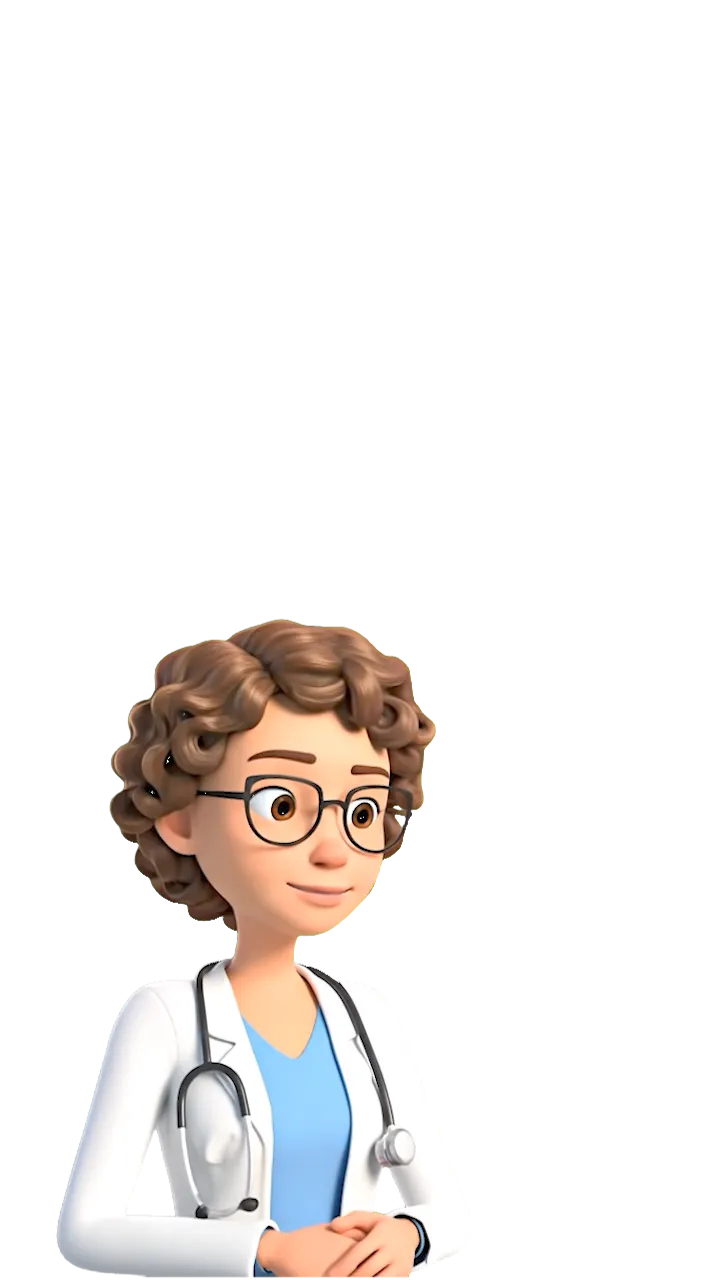
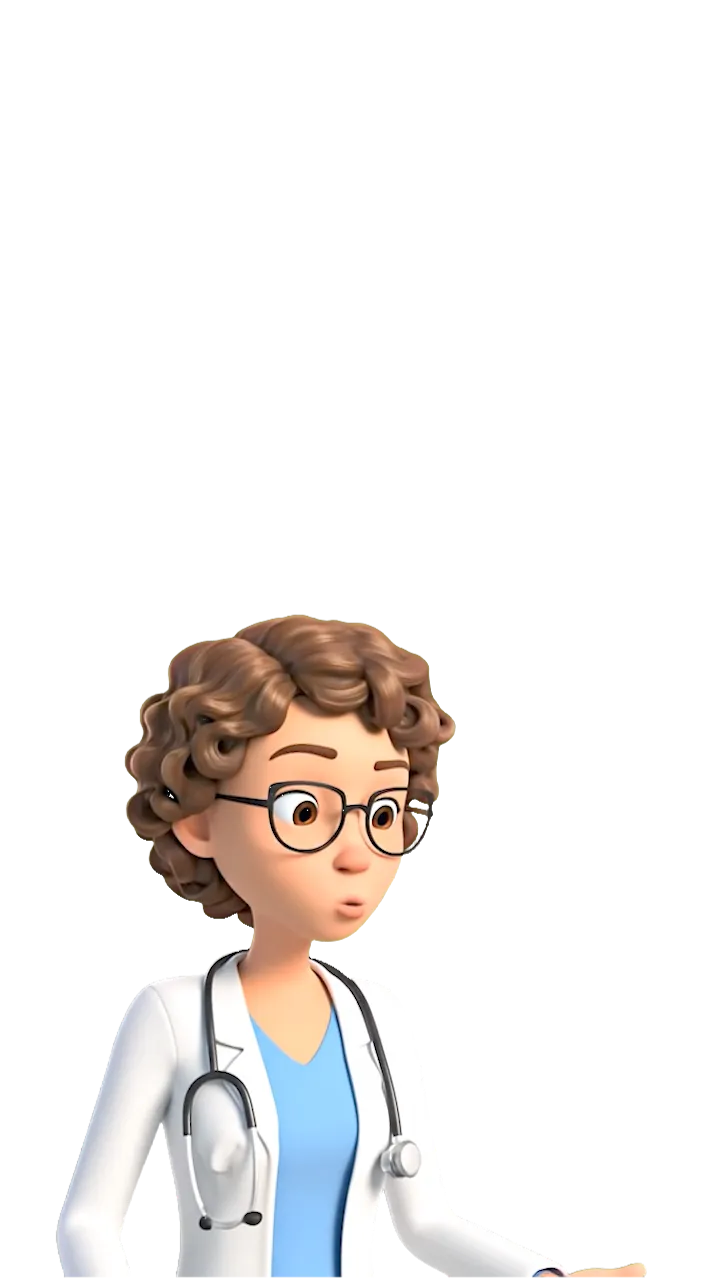
update

Changed region(s): [[0.0611, 0.4688, 0.9167, 1.0]]

diff --git a/src/components/pages/funzo/ScratchCard.jsx b/src/components/pages/funzo/ScratchCard.jsx
@@ -713,7 +713,7 @@ function ScratchCard({ projectData, projectId, ui }) {
                 ref={patientRef}
                 textures={patientFrames}
                 x={
-                  projectId === "scratch-card-zambia"
+                  (projectId === "scratch-card-zambia" || projectId === "scratch-card-ghana" )
                     ? canvasDimensions.width * 0.17 
                     : canvasDimensions.width * 0.32 
                 }
